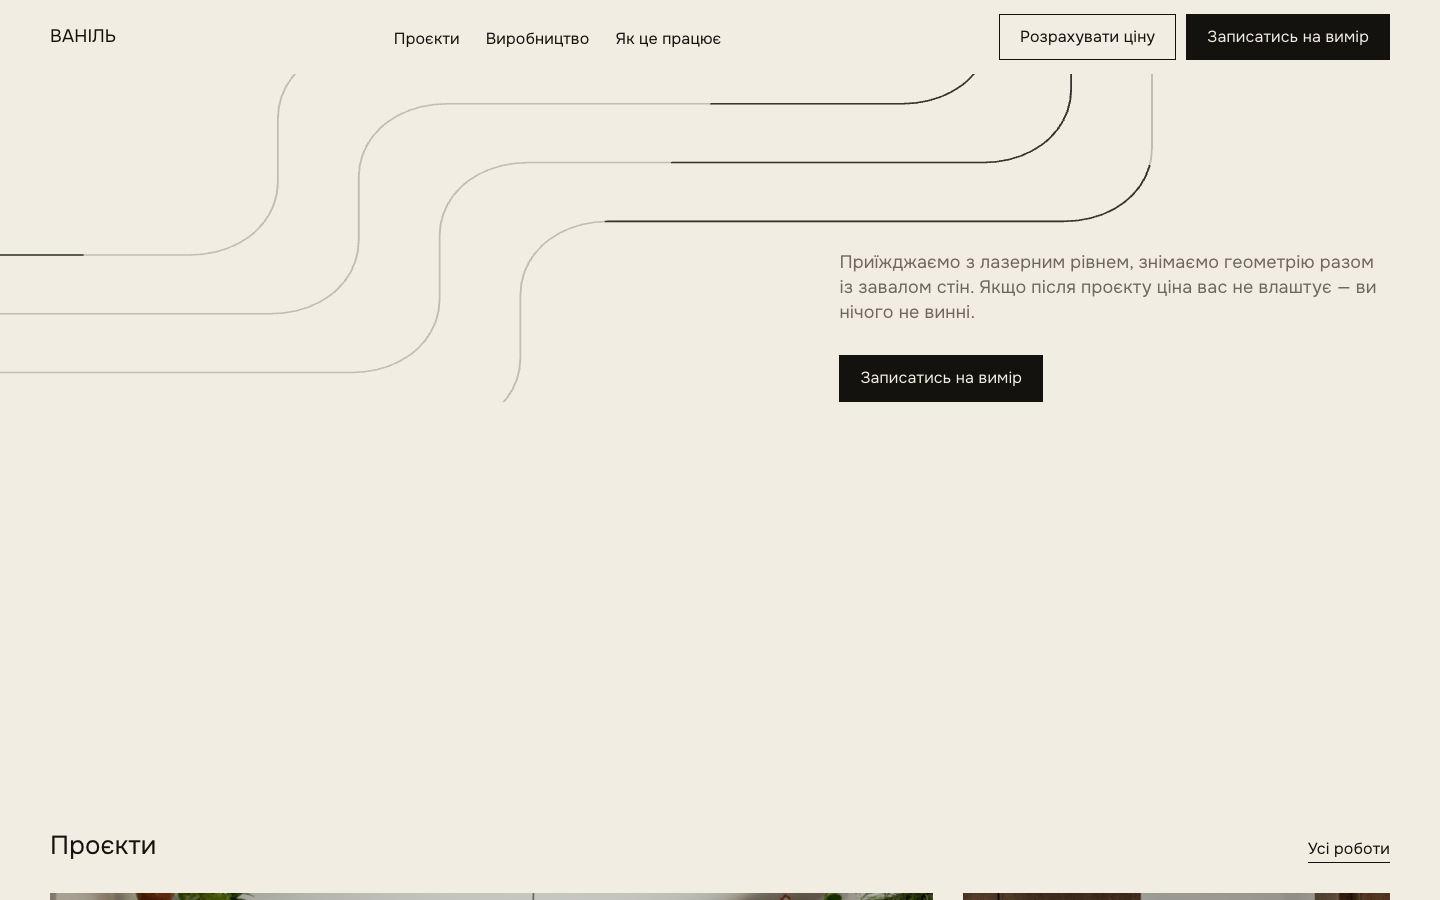
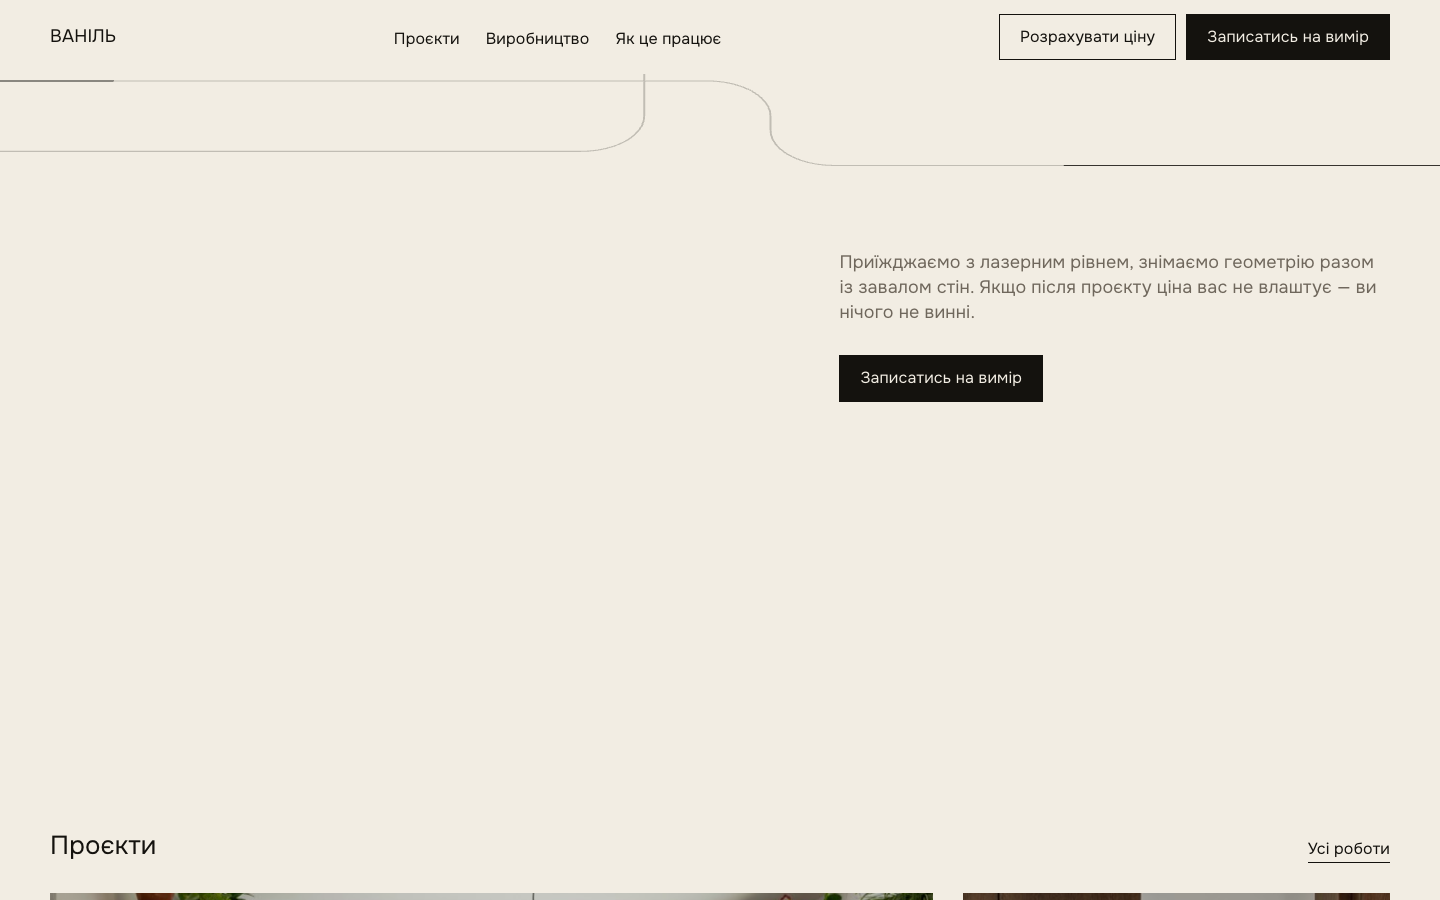
Заявна секція: дві смуги, що перетинаються, від краю до краю
Було чотири паралельні лінії, які виходили вгору за верхній край.
Стало дві, що йдуть назустріч і перетинаються:
- A: зліва y=200 -> справа y=320
- B: зліва y=300 -> справа y=120
Перетин порахований, не намальований на око: вертикаль B (x=510) проходить
через y 170..250, горизонталь A лежить на y=200 — точка (510, 200).
Перевірено обходом контурів: мінімальна відстань між лініями 1,28px,
обидві починаються на x=-20 і закінчуються на x=1160, тобто виходять
з обох боків кадру, а не вгору.

Смугу обмежено рядком 2 сітки (просвіт між заголовком і абзацом): раніше
вона тяглася до рядка 3 і 208 точок контурів лежали під текстом футера.
Тепер перетинів із текстом нуль.

diff --git a/assets/style.css b/assets/style.css
@@ -204,7 +204,9 @@ a:focus-visible,button:focus-visible,input:focus-visible,select:focus-visible,.c
    тобто починаються рівно там, де закінчується заголовок, і тримаються там
    самі, хоч би як змінився кегль. Поля перекриваються, щоб лінії йшли
    від краю до краю. */
-.claim__artwrap{grid-row:2 / 4;grid-column:1;position:relative;z-index:-1;
+/* тільки рядок 2 — порожній просвіт між заголовком і абзацом. Раніше смуга
+   тяглася до рядка 3 і лінії проходили під текстом футера. */
+.claim__artwrap{grid-row:2;grid-column:1;position:relative;z-index:-1;
                 width:calc(100% + var(--g) * 2);margin-inline:calc(var(--g) * -1)}
 .claim__art{position:absolute;inset:0;width:100%;height:100%;
             fill:none;stroke:var(--k);stroke-width:1.5;
@@ -215,7 +217,7 @@ a:focus-visible,button:focus-visible,input:focus-visible,select:focus-visible,.c
    а не пікселями, і однаково лягає на лінії різної довжини.
    --flow веде скрол (app.js), --i розводить лінії в часі. */
 .claim__flow path{opacity:.8;stroke-dasharray:.34 .66;
-                  stroke-dashoffset:calc(1.34 - var(--flow,0) * 1.7 + var(--i,0) * .09)}
+                  stroke-dashoffset:calc(1.34 - var(--flow,0) * 1.7 + var(--i,0) * .16)}
 
 .claim__foot{grid-row:3;grid-column:1;justify-self:end;max-width:46ch;
              display:flex;flex-direction:column;gap:var(--s-sm);align-items:flex-start}

diff --git a/index.html b/index.html
@@ -59,16 +59,12 @@
   <svg class="claim__art" viewBox="0 0 1140 440" fill="none" preserveAspectRatio="none"
        focusable="false">
     <g class="claim__base">
-      <path d="M-20 300H150c40 0 70-30 70-70V170c0-40 30-70 70-70h360c40 0 70-30 70-70V-30"/>
-      <path d="M-20 356H214c40 0 70-30 70-70V226c0-40 30-70 70-70h360c40 0 70-30 70-70V-30"/>
-      <path d="M-20 412H278c40 0 70-30 70-70V282c0-40 30-70 70-70h360c40 0 70-30 70-70V-30"/>
-      <path d="M-20 468H342c40 0 70-30 70-70V338c0-40 30-70 70-70h360c40 0 70-30 70-70V-30"/>
+      <path d="M-20 200H560a50 50 0 0 1 50 50V270a50 50 0 0 0 50 50H1160"/>
+      <path d="M-20 300H460a50 50 0 0 0 50-50V170a50 50 0 0 1 50-50H1160"/>
     </g>
     <g class="claim__flow">
-      <path pathLength="1" style="--i:0" d="M-20 300H150c40 0 70-30 70-70V170c0-40 30-70 70-70h360c40 0 70-30 70-70V-30"/>
-      <path pathLength="1" style="--i:1" d="M-20 356H214c40 0 70-30 70-70V226c0-40 30-70 70-70h360c40 0 70-30 70-70V-30"/>
-      <path pathLength="1" style="--i:2" d="M-20 412H278c40 0 70-30 70-70V282c0-40 30-70 70-70h360c40 0 70-30 70-70V-30"/>
-      <path pathLength="1" style="--i:3" d="M-20 468H342c40 0 70-30 70-70V338c0-40 30-70 70-70h360c40 0 70-30 70-70V-30"/>
+      <path pathLength="1" style="--i:0" d="M-20 200H560a50 50 0 0 1 50 50V270a50 50 0 0 0 50 50H1160"/>
+      <path pathLength="1" style="--i:1" d="M-20 300H460a50 50 0 0 0 50-50V170a50 50 0 0 1 50-50H1160"/>
     </g>
   </svg>
   </div>
